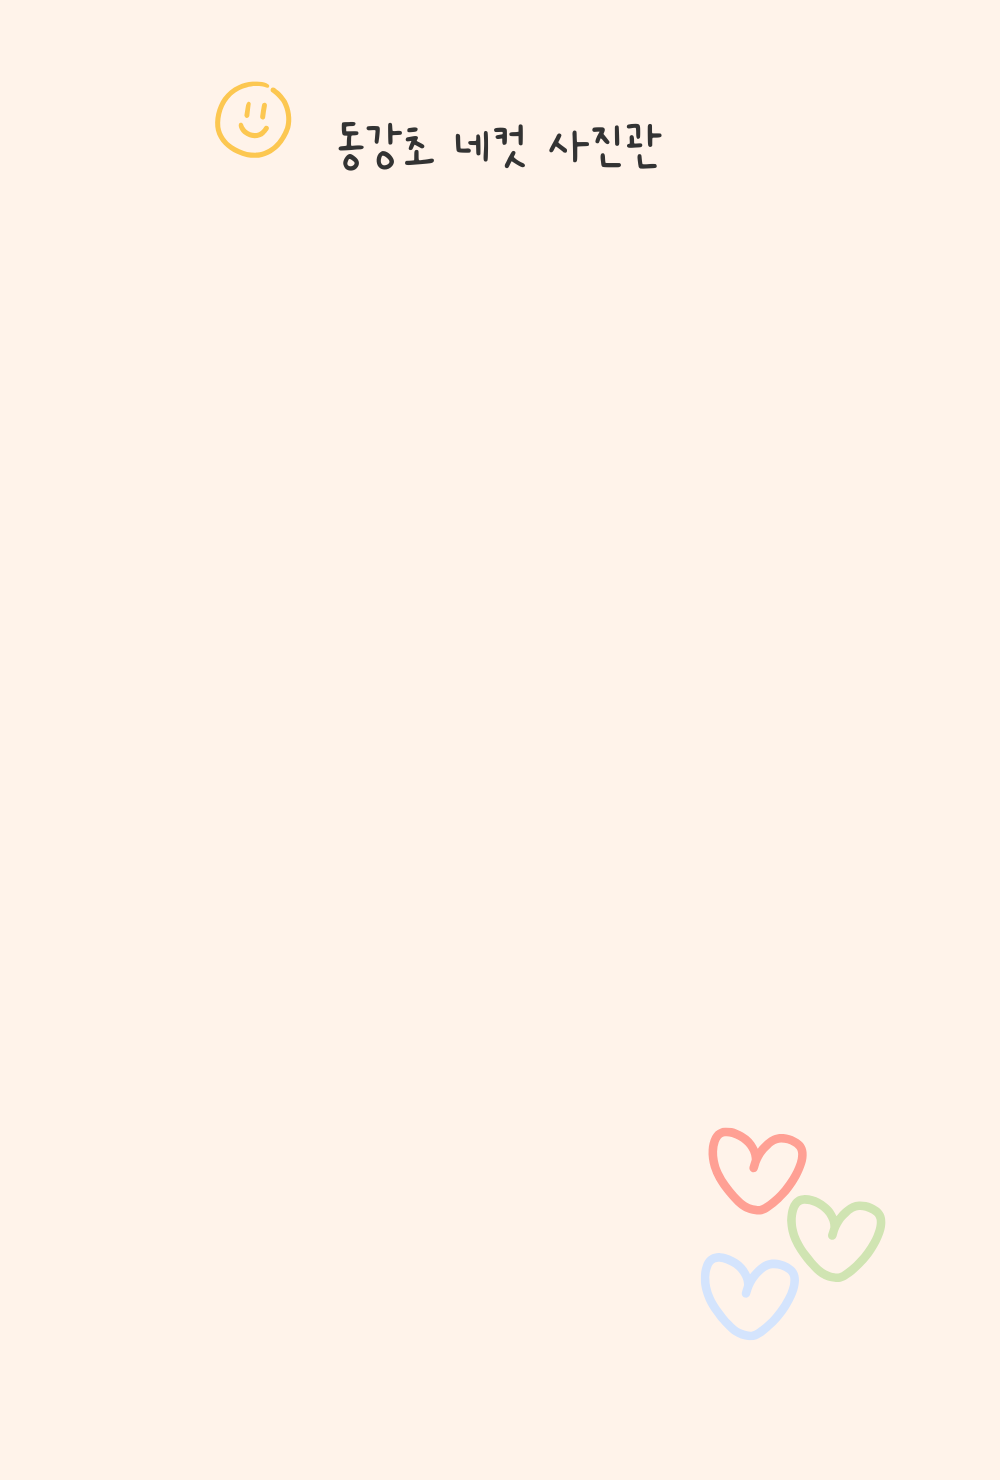
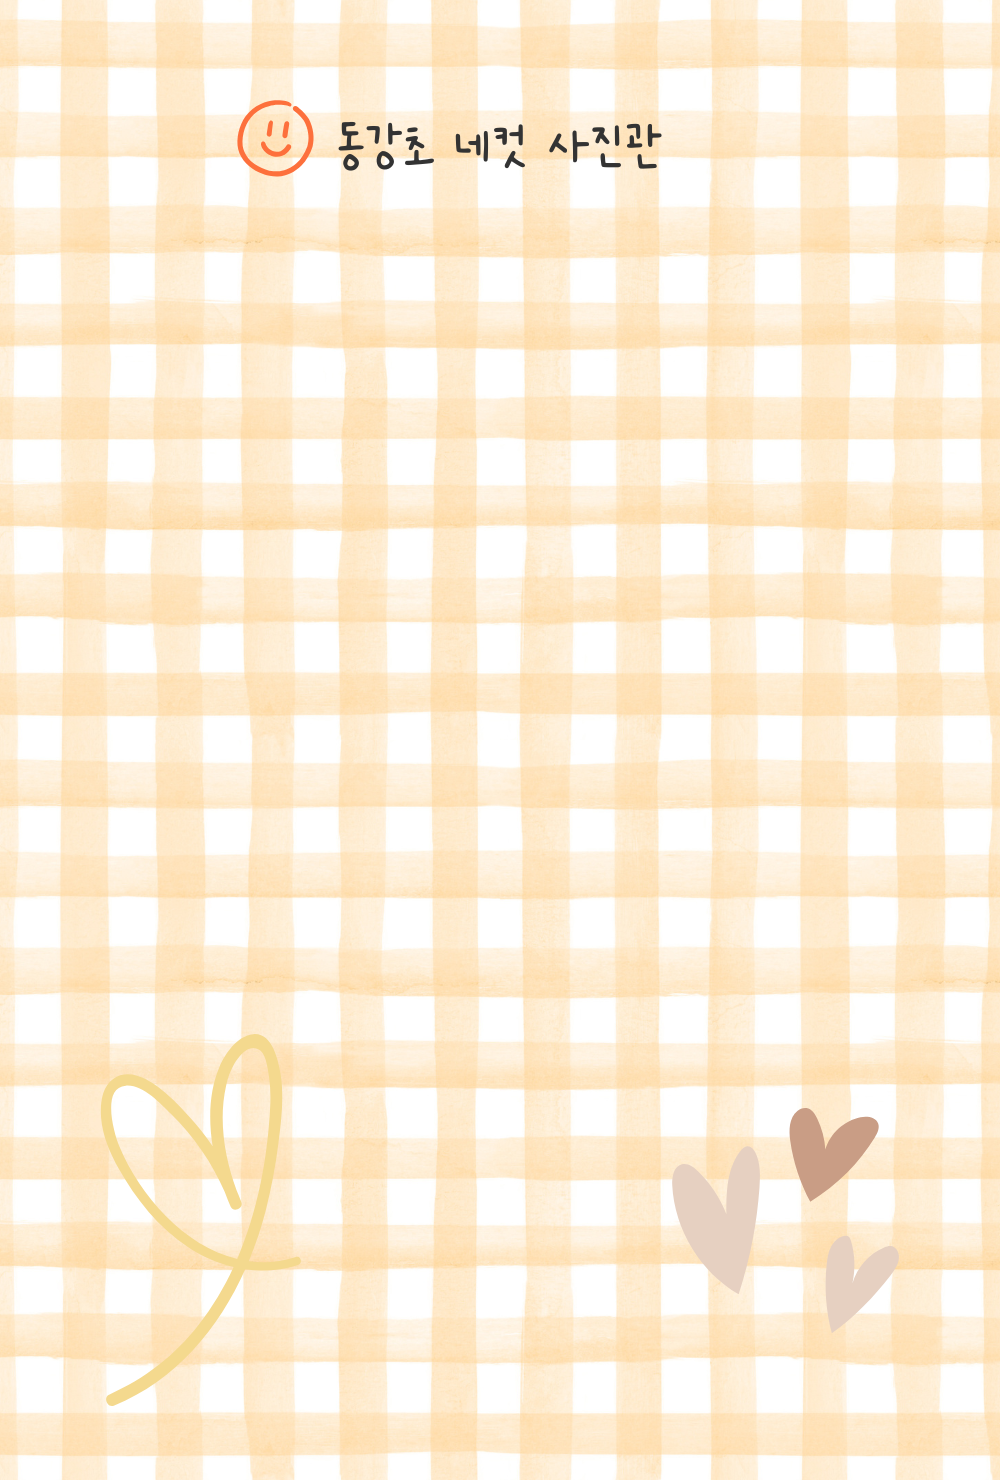
frame photo

diff --git a/src/data/frames.ts b/src/data/frames.ts
@@ -1,8 +1,8 @@
-import basicCream from '../assets/frames/basic-cream.png'
+import basic from '../assets/frames/basic.png'
 import pastel from '../assets/frames/pastel.png'
 import ourSchool from '../assets/frames/our-school.png'
 import nature from '../assets/frames/nature.png'
-import simple from '../assets/frames/simple.png'
+import check from '../assets/frames/check.png'
 
 export interface PhotoFrame {
   id: string
@@ -22,11 +22,11 @@ export interface PhotoFrame {
 
 export const frames: PhotoFrame[] = [
   {
-    id: 'basic-cream',
-    name: '기본 크림',
+    id: 'basic',
+    name: '기본',
     enabled: true,
     category: 'basic',
-    background: basicCream,
+    background: basic,
     title: '',
     footerText: '',
   },
@@ -60,11 +60,11 @@ export const frames: PhotoFrame[] = [
     footerText: '',
   },
   {
-    id: 'simple',
-    name: '심플',
+    id: 'check',
+    name: '체크',
     enabled: true,
     category: 'basic',
-    background: simple,
+    background: check,
     title: '',
     footerText: '',
   },
